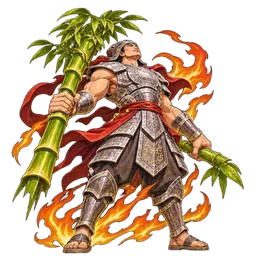
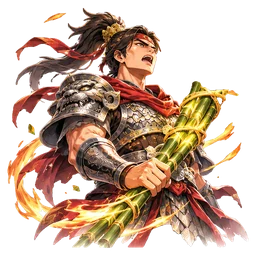
Vẽ lại 15 thẻ (ChatGPT, phong cách anime cận/trung cảnh): Nguyệt Thạch, Thần Trống Đồng, Yêu Tinh Xanh, Tướng Cổ Loa, Ngưu Đầu, Đô Vật Làng, Lính Tay Sắt, Lính Đất Nung, Thánh Gióng, Quỷ Phản Trắc, Ông Ba Mươi, Thiền Sư Võ, Cơ Não, Nhục Quái, Ngọc Hoàng; công cụ cat_luoi_nhan_vat.py; gpu40
Claude-Session: https://claude.ai/code/session_01Lr2WGAT2DCPraFATEfHpyN

diff --git a/www/index.html b/www/index.html
@@ -5,15 +5,15 @@
 <meta name="viewport" content="width=device-width, initial-scale=1, maximum-scale=1">
 <title>Linh Thú Tam Địa — Bản Nâng Cấp WebGL GPU</title>
 <link rel="icon" href="data:,">
-<link rel="stylesheet" href="css/00-fonts.css?v=gpu39">
-<link rel="stylesheet" href="css/01-arena-cards.css?v=gpu39">
-<link rel="stylesheet" href="css/02-board-vfx.css?v=gpu39">
-<link rel="stylesheet" href="css/03-lobby-meta.css?v=gpu39">
-<link rel="stylesheet" href="css/04-vfx-gpu.css?v=gpu39">
-<link rel="stylesheet" href="css/05-mo-bai.css?v=gpu39">
-<link rel="stylesheet" href="css/06-cai-dat.css?v=gpu39">
-<link rel="stylesheet" href="css/07-nen-the.css?v=gpu39">
-<link rel="stylesheet" href="css/08-dau-hieu.css?v=gpu39">
+<link rel="stylesheet" href="css/00-fonts.css?v=gpu40">
+<link rel="stylesheet" href="css/01-arena-cards.css?v=gpu40">
+<link rel="stylesheet" href="css/02-board-vfx.css?v=gpu40">
+<link rel="stylesheet" href="css/03-lobby-meta.css?v=gpu40">
+<link rel="stylesheet" href="css/04-vfx-gpu.css?v=gpu40">
+<link rel="stylesheet" href="css/05-mo-bai.css?v=gpu40">
+<link rel="stylesheet" href="css/06-cai-dat.css?v=gpu40">
+<link rel="stylesheet" href="css/07-nen-the.css?v=gpu40">
+<link rel="stylesheet" href="css/08-dau-hieu.css?v=gpu40">
 </head>
 <body>
 <div id="ldr12" role="status" aria-live="polite"><div class="lb12"><b>LINH THÚ TAM ĐỊA</b><div class="bar12"><i id="ldrBar"></i></div><span id="ldrTxt">Đang tải hình… 0%</span><button type="button" id="ldrSkip" hidden>Vào luôn</button></div></div>
@@ -320,23 +320,23 @@
 </div></div>
 
 
-<script src="js/11-nen-the.js?v=gpu39"></script>
-<script src="js/01-engine.js?v=gpu39"></script>
-<script src="js/03-data-store.js?v=gpu39"></script>
-<script src="js/04a-sfx-fam.js?v=gpu39"></script>
-<script src="js/04-audio.js?v=gpu39"></script>
-<script src="js/05-vfx-core.js?v=gpu39"></script>
-<script src="js/06-ui-match.js?v=gpu39"></script>
-<script src="js/07-meta-modes.js?v=gpu39"></script>
-<script src="js/08-vfx-webgl.js?v=gpu39"></script>
-<script src="js/09-card-choreo.js?v=gpu39"></script>
-<script src="js/10-online-cf.js?v=gpu39"></script>
-<script src="js/12-dau-hieu.js?v=gpu39"></script>
+<script src="js/11-nen-the.js?v=gpu40"></script>
+<script src="js/01-engine.js?v=gpu40"></script>
+<script src="js/03-data-store.js?v=gpu40"></script>
+<script src="js/04a-sfx-fam.js?v=gpu40"></script>
+<script src="js/04-audio.js?v=gpu40"></script>
+<script src="js/05-vfx-core.js?v=gpu40"></script>
+<script src="js/06-ui-match.js?v=gpu40"></script>
+<script src="js/07-meta-modes.js?v=gpu40"></script>
+<script src="js/08-vfx-webgl.js?v=gpu40"></script>
+<script src="js/09-card-choreo.js?v=gpu40"></script>
+<script src="js/10-online-cf.js?v=gpu40"></script>
+<script src="js/12-dau-hieu.js?v=gpu40"></script>
 <script>
 /* gpu22: service worker (chỉ khi chạy qua http/https, không đăng ký trong vỏ Capacitor/APK vì ảnh đã nằm sẵn trong app) */
 (function(){var C=window.Capacitor,nat=C&&C.isNativePlatform&&C.isNativePlatform();
 if(!("serviceWorker" in navigator)||!/^https?:$/.test(location.protocol)||nat)return;
-var SWU="sw.js?v=gpu39",V=SWU.split("v=")[1];
+var SWU="sw.js?v=gpu40",V=SWU.split("v=")[1];
 /* gpu35: trang mở lâu (ứng dụng để nền rồi mở lại) vẫn nhận bản mới: khi quay lại trang (tối đa 1 lần/10 phút) đọc index.html mới nhất,
    thấy số phiên bản khác -> đang ở sảnh thì tải lại ngay (1 lần cho mỗi bản), đang chơi thì hiện nút "Có bản mới — chạm để cập nhật". */
 var lastChk=0;function chk(){var now=Date.now();if(now-lastChk<600000||!navigator.onLine)return;lastChk=now;

diff --git a/www/js/05-vfx-core.js b/www/js/05-vfx-core.js
@@ -1555,7 +1555,9 @@ document.addEventListener("error",e=>{const t=e.target;if(!t||t.tagName!=="IMG")
 /* gpu22: mỗi thẻ có file riêng: img/ct/<id>.webp (thumbnail 256) và img/c/<id>.webp (đầy đủ 512). Khoá "id" = thumbnail, "id@f" = bản đầy đủ.
    gpu23: bỏ đường dự phòng cắt sprite tờ img/s (thư mục này không còn trong www/, mọi id trong IMGS.c đều có img/c + img/ct). */
 const CV12="gpu22";
-function cardUrl12(id,f){return new URL("img/"+(f?"c":"ct")+"/"+id+".webp?v="+CV12,document.baseURI||location.href).href;}
+/* ảnh thẻ vẽ lại: phiên bản riêng theo thẻ để máy người chơi tải ảnh mới mà không phải tải lại toàn bộ */
+const CV12X={};for(const k of "nguyetthach thietgiap yeutinhluc thuantuong nguumamienvien lucsi taythep linhgacmay thepnhan yeutinhcam bachho quyensu naomay khoithit phuthan".split(" "))CV12X[k]="a40";
+function cardUrl12(id,f){return new URL("img/"+(f?"c":"ct")+"/"+id+".webp?v="+(CV12X[id]||CV12),document.baseURI||location.href).href;}
 function spKey12(k){const f=k.slice(-2)==="@f";return {f:f,id:f?k.slice(0,-2):k};}
 function spLoad(k){if(SP.c[k]||SP.k[k])return;const q=spKey12(k);if(!IMGS.c[q.id])return;
   SP.k[k]=1;const cu=cardUrl12(q.id,q.f);

diff --git a/tools/cat_luoi_nhan_vat.py b/tools/cat_luoi_nhan_vat.py
@@ -1,0 +1,42 @@
+#!/usr/bin/env python3
+"""Cắt lưới 2x2 nhân vật (ChatGPT, nền trắng) thành ảnh thẻ tách nền:
+   www/img/c/<id>.webp (512, RGBA) + www/img/ct/<id>.webp (256).
+   python3 tools/cat_luoi_nhan_vat.py <ảnh> id1,id2,id3,id4 [--xem]   (id '-' = bỏ ô)
+Tách nền bằng rembg (isnet-general-use), cắt sát nhân vật, đặt giữa khung vuông (lề 3%)."""
+import sys, os
+from PIL import Image
+from rembg import remove, new_session
+ROOT = os.path.join(os.path.dirname(os.path.abspath(__file__)), "..", "www")
+src, ids = sys.argv[1], sys.argv[2].split(",")
+im = Image.open(src).convert("RGB"); W, H = im.size
+ses = new_session("isnet-general-use")
+outs = []
+for i, k in enumerate(ids):
+    if k == "-": continue
+    cell = im.crop(((i % 2) * W // 2, (i // 2) * H // 2, (i % 2 + 1) * W // 2, (i // 2 + 1) * H // 2))
+    cut = remove(cell, session=ses, post_process_mask=True)
+    a = cut.getchannel("A").point(lambda v: 0 if v < 24 else v)
+    if k.endswith("!"):  # id! = tách bằng loang nền trắng từ mép (giữ được vật mảnh như giáo, dây) hợp với mặt nạ rembg
+        k = k[:-1]
+        import numpy as np
+        from scipy import ndimage
+        from PIL import ImageFilter
+        rgb = np.asarray(cell).astype(int); white = (rgb.min(2) > 236) & ((rgb.max(2) - rgb.min(2)) < 14)
+        lab, n = ndimage.label(white); edge = set(lab[0]) | set(lab[-1]) | set(lab[:, 0]) | set(lab[:, -1]); edge.discard(0)
+        bg = np.isin(lab, list(edge)); fg = ndimage.binary_opening(~bg, iterations=1)
+        lab2, n2 = ndimage.label(fg); sz = ndimage.sum(fg, lab2, range(1, n2 + 1)); keep = np.isin(lab2, [i + 1 for i, v in enumerate(sz) if v > 400])
+        m = Image.fromarray((keep * 255).astype("uint8")).filter(ImageFilter.GaussianBlur(0.8))
+        from PIL import ImageChops
+        a = ImageChops.lighter(a, m); cut = cell.convert("RGBA")
+    cut.putalpha(a)
+    bb = a.point(lambda v: 255 if v > 40 else 0).getbbox(); cut = cut.crop(bb)
+    S = 512; m = int(S * 0.03); sc = min((S - 2 * m) / cut.width, (S - 2 * m) / cut.height)
+    cut = cut.resize((max(1, round(cut.width * sc)), max(1, round(cut.height * sc))), Image.LANCZOS)
+    out = Image.new("RGBA", (S, S), (0, 0, 0, 0)); out.paste(cut, ((S - cut.width) // 2, (S - cut.height) // 2), cut)
+    out.save(os.path.join(ROOT, "img/c", k + ".webp"), quality=90, method=5)
+    out.resize((256, 256), Image.LANCZOS).save(os.path.join(ROOT, "img/ct", k + ".webp"), quality=86, method=5)
+    outs.append((k, out)); print("ok", k, bb)
+if "--xem" in sys.argv:
+    sh = Image.new("RGB", (512 * len(outs), 512), (36, 38, 60))
+    for j, (k, o) in enumerate(outs): sh.paste(o, (j * 512, 0), o)
+    sh.save(os.path.join(os.path.dirname(os.path.abspath(__file__)), "_xem_nhan_vat.png"))
